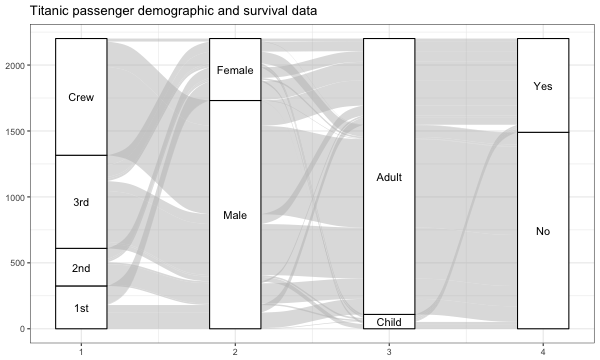
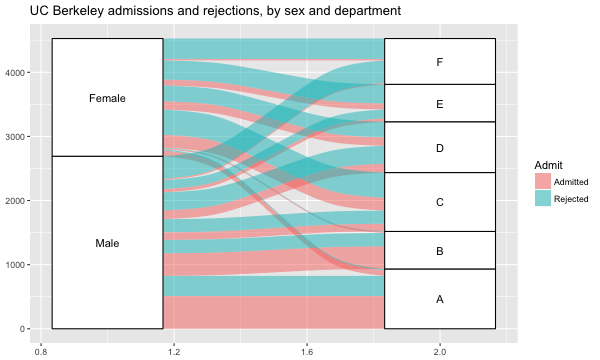
simplify formula check in ggalluvial() + mix up README examples

diff --git a/README.md b/README.md
@@ -32,14 +32,11 @@ library(ggalluvial)
 
 ```r
 png(height = 360, width = 600, file = "inst/fig/example-basic.png")
-ggplot(as.data.frame(Titanic),
-       aes(weight = Freq,
-           axis1 = Class, axis2 = Sex, axis3 = Age, axis4 = Survived)) +
-  geom_alluvium() +
-  geom_stratum() +
-  geom_text(stat = "stratum") +
-  ggtitle("Titanic passenger demographic and survival data") +
-  theme_bw()
+ggplot(as.data.frame(UCBAdmissions),
+       aes(weight = Freq, axis1 = Gender, axis2 = Dept)) +
+  geom_alluvium(aes(fill = Admit)) +
+  geom_stratum() + geom_text(stat = "stratum") +
+  ggtitle("UC Berkeley admissions and rejections, by sex and department")
 dev.off()
 ```
 
@@ -101,15 +98,16 @@ dev.off()
 
 ### Time series
 
-A more straightforward class of alluvial diagrams track discrete distributions over time. The following example reproduces the original time series example from [alluvial](https://github.com/mbojan/alluvial). Some distinguishability is lost due to the absence of gaps between the alluvial flows, but on the whole the effect is quite nice. I refer to these as time series alluvial diagrams, in contrast to the categorical alluvial diagrams originally implemented. As in the categorical case, these diagrams are compatible with facets.
+A more straightforward class of alluvial diagrams track discrete distributions over time. I refer to these as time series alluvial diagrams, in contrast to the categorical alluvial diagrams originally implemented. As in the categorical case, these diagrams are compatible with facets.
 
 ```{r}
-data(Refugees, package = "alluvial")
 png(height = 360, width = 600, file = "inst/fig/example-ts.png")
-ggplot(Refugees,
-       aes(x = year, group = country, weight = refugees)) +
-  geom_alluvium_ts(aes(fill = country, colour = country)) +
-  ggtitle("Refugee volume over the years, by country of origin")
+wph <- as.data.frame(as.table(WorldPhones))
+names(wph) <- c("Year", "Region", "Telephones")
+ggplot(wph,
+       aes(x = Year, group = Region, weight = Telephones)) +
+  geom_alluvium_ts(aes(fill = Region, colour = Region)) +
+  ggtitle("Number of telephones across world regions over time")
 dev.off()
 ```
 
@@ -120,12 +118,22 @@ dev.off()
 The default shortcut `ggalluvial.default` requires that a multidimensional frequency table be reformatted as a data frame, consistent with the principles of ggplot2 (see [here](https://rpubs.com/hadley/ggplot2-layers), section "Data"). The formula interface `ggalluvial.formula` is triggered when "formula" is an argument in the function call, or if the first (unnamed) argument is a call; as shown below, it accepts frequency tables as well, in which case the flows will automatically be weighted by the frequencies. It will produce a categorical alluvial diagram if the RHS of the formula has at least two variables, and a time series diagram if the RHS has only one variable. Both shortcut functions include the axis labels fix used explicitly in the previous example.
 
 ```{r}
-png(height = 360, width = 600, file = "inst/fig/example-shortcut.png")
+png(height = 360, width = 600, file = "inst/fig/example-shortcut-1.png")
 ggalluvial(Survived ~ Class + Sex + Age, Titanic)
 dev.off()
 ```
 
-![Shortcut](inst/fig/example-shortcut.png)
+The following example reproduces the original time series example from [alluvial](https://github.com/mbojan/alluvial). Some distinguishability is lost due to the absence of gaps between the alluvial flows, but on the whole the effect is quite nice.
+
+![Shortcut](inst/fig/example-shortcut-1.png)
+
+```{r}
+png(height = 360, width = 600, file = "inst/fig/example-shortcut-2.png")
+ggalluvial(country ~ year, alluvial::Refugees, weight = "refugees")
+dev.off()
+```
+
+![Shortcut](inst/fig/example-shortcut-2.png)
 
 Many more examples can be found in the examples subdirectory (or via `help()`).
 
